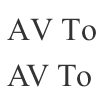
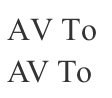
Improved Javadoc

diff --git a/screenshot-maven-plugin-parent/screenshot-maven-plugin-api/src/main/java/se/bluebrim/maven/plugin/screenshot/sample/FontChartPanel.java b/screenshot-maven-plugin-parent/screenshot-maven-plugin-api/src/main/java/se/bluebrim/maven/plugin/screenshot/sample/FontChartPanel.java
@@ -53,6 +53,12 @@ public class FontChartPanel extends JPanel
 	private static final Font INFO_FONT = new Font("SansSerif", Font.PLAIN, 12);
 	private static final Color INFO_COLOR = Color.BLACK;		
 
+	/**
+	 * <p>
+	 * A panel that draw font info and sample text of the font. 
+	 * </p>
+	 * <img src="doc-files/FontPanel.png">
+	 */
 	public static class FontPanel extends JPanel implements Comparable<FontChartPanel.FontPanel>
 	{
 		private static final float FONT_SAMPLE_SIZE = 16f;		// The size of the character set and digits sample
@@ -116,6 +122,12 @@ public class FontChartPanel extends JPanel
 		}
 	}
 
+	/**
+	 * <p>
+	 * A panel that draw the font size as a formatted number. 
+	 * </p>
+	 * <img src="doc-files/FontSizeLabel.png">
+	 */
 	public static class FontSizeLabel extends JLabel
 	{
 		private static final NumberFormat FONT_SIZE_FORMAT = NumberFormat.getNumberInstance();
@@ -203,11 +215,11 @@ public class FontChartPanel extends JPanel
 	{		
 		public FontKerningPanel(Font font) {
 			super();
+			setLayout(new MigLayout(new LC().flowY().gridGap("0", "0")));
 			setOpaque(false);
 			setBackground(null);
 			String text = "AV To ";
 			font = font.deriveFont(32f);
-			setLayout(new MigLayout(new LC().flowY()));
 			add(new BestRenderQualityLabel(text, font, false));
 			add(new BestRenderQualityLabel(text, font));
 		}		
@@ -230,7 +242,7 @@ public class FontChartPanel extends JPanel
 			if (kerning)
 			{
 				attributes.put(TextAttribute.KERNING, TextAttribute.KERNING_ON);
-				font = new Font(attributes);
+				font = font.deriveFont(attributes);
 			}
 			setFont(font);
 		}

diff --git a/screenshot-maven-plugin-parent/screenshot-maven-plugin-api/src/test/java/se/bluebrim/maven/plugin/screenshot/ScreenshotTest.java b/screenshot-maven-plugin-parent/screenshot-maven-plugin-api/src/test/java/se/bluebrim/maven/plugin/screenshot/ScreenshotTest.java
@@ -178,6 +178,18 @@ public class ScreenshotTest {
 	}
 	
 	@Screenshot
+	public JComponent testFontPanel()
+	{
+		return new FontChartPanel.FontPanel(new Font(Font.SERIF, Font.PLAIN, 12), "ScreenshotTest.testFontPanel");
+	}
+	
+	@Screenshot
+	public JComponent testFontSizeLabel()
+	{
+		return new FontChartPanel.FontSizeLabel(new Font(Font.SERIF, Font.PLAIN, 12));
+	}
+	
+	@Screenshot
 	public JComponent testFontKerningPanel()
 	{
 		return new FontChartPanel.FontKerningPanel(new Font(Font.SERIF, Font.PLAIN, 1));
